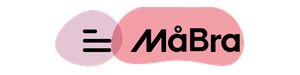
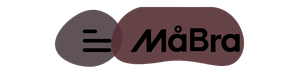
smilefix 08-27: trust strips 9,7 + darker pastel press marks (visual pass) — sha D

diff --git a/smilefix-nlbe/lander.css b/smilefix-nlbe/lander.css
@@ -1,10 +1,10 @@
 
-@font-face{font-family:poppins;font-style:normal;font-weight:400;font-display:swap;src:url(https://cdn.jsdelivr.net/gh/h2sghf9zzd-ai/funnel-assets@1116ad9/smilefix-nlbe/lander/8fe2ec7c823e.woff2)format('woff2');unicode-range:U+0900-097F,U+1CD0-1CF9,U+200C-200D,U+20A8,U+20B9,U+20F0,U+25CC,U+A830-A839,U+A8E0-A8FF,U+11B00-11B09}
-@font-face{font-family:poppins;font-style:normal;font-weight:400;font-display:swap;src:url(https://cdn.jsdelivr.net/gh/h2sghf9zzd-ai/funnel-assets@1116ad9/smilefix-nlbe/lander/c9d614f41715.woff2)format('woff2');unicode-range:U+0100-02BA,U+02BD-02C5,U+02C7-02CC,U+02CE-02D7,U+02DD-02FF,U+0304,U+0308,U+0329,U+1D00-1DBF,U+1E00-1E9F,U+1EF2-1EFF,U+2020,U+20A0-20AB,U+20AD-20C0,U+2113,U+2C60-2C7F,U+A720-A7FF}
-@font-face{font-family:poppins;font-style:normal;font-weight:400;font-display:swap;src:url(https://cdn.jsdelivr.net/gh/h2sghf9zzd-ai/funnel-assets@1116ad9/smilefix-nlbe/lander/e6a077c34deb.woff2)format('woff2');unicode-range:U+0000-00FF,U+0131,U+0152-0153,U+02BB-02BC,U+02C6,U+02DA,U+02DC,U+0304,U+0308,U+0329,U+2000-206F,U+20AC,U+2122,U+2191,U+2193,U+2212,U+2215,U+FEFF,U+FFFD}
-@font-face{font-family:poppins;font-style:normal;font-weight:700;font-display:swap;src:url(https://cdn.jsdelivr.net/gh/h2sghf9zzd-ai/funnel-assets@1116ad9/smilefix-nlbe/lander/23090f00efe3.woff2)format('woff2');unicode-range:U+0900-097F,U+1CD0-1CF9,U+200C-200D,U+20A8,U+20B9,U+20F0,U+25CC,U+A830-A839,U+A8E0-A8FF,U+11B00-11B09}
-@font-face{font-family:poppins;font-style:normal;font-weight:700;font-display:swap;src:url(https://cdn.jsdelivr.net/gh/h2sghf9zzd-ai/funnel-assets@1116ad9/smilefix-nlbe/lander/7199488410a2.woff2)format('woff2');unicode-range:U+0100-02BA,U+02BD-02C5,U+02C7-02CC,U+02CE-02D7,U+02DD-02FF,U+0304,U+0308,U+0329,U+1D00-1DBF,U+1E00-1E9F,U+1EF2-1EFF,U+2020,U+20A0-20AB,U+20AD-20C0,U+2113,U+2C60-2C7F,U+A720-A7FF}
-@font-face{font-family:poppins;font-style:normal;font-weight:700;font-display:swap;src:url(https://cdn.jsdelivr.net/gh/h2sghf9zzd-ai/funnel-assets@1116ad9/smilefix-nlbe/lander/742b18be16f6.woff2)format('woff2');unicode-range:U+0000-00FF,U+0131,U+0152-0153,U+02BB-02BC,U+02C6,U+02DA,U+02DC,U+0304,U+0308,U+0329,U+2000-206F,U+20AC,U+2122,U+2191,U+2193,U+2212,U+2215,U+FEFF,U+FFFD}
+@font-face{font-family:poppins;font-style:normal;font-weight:400;font-display:swap;src:url(https://cdn.jsdelivr.net/gh/h2sghf9zzd-ai/funnel-assets@9b43228/smilefix-nlbe/lander/8fe2ec7c823e.woff2)format('woff2');unicode-range:U+0900-097F,U+1CD0-1CF9,U+200C-200D,U+20A8,U+20B9,U+20F0,U+25CC,U+A830-A839,U+A8E0-A8FF,U+11B00-11B09}
+@font-face{font-family:poppins;font-style:normal;font-weight:400;font-display:swap;src:url(https://cdn.jsdelivr.net/gh/h2sghf9zzd-ai/funnel-assets@9b43228/smilefix-nlbe/lander/c9d614f41715.woff2)format('woff2');unicode-range:U+0100-02BA,U+02BD-02C5,U+02C7-02CC,U+02CE-02D7,U+02DD-02FF,U+0304,U+0308,U+0329,U+1D00-1DBF,U+1E00-1E9F,U+1EF2-1EFF,U+2020,U+20A0-20AB,U+20AD-20C0,U+2113,U+2C60-2C7F,U+A720-A7FF}
+@font-face{font-family:poppins;font-style:normal;font-weight:400;font-display:swap;src:url(https://cdn.jsdelivr.net/gh/h2sghf9zzd-ai/funnel-assets@9b43228/smilefix-nlbe/lander/e6a077c34deb.woff2)format('woff2');unicode-range:U+0000-00FF,U+0131,U+0152-0153,U+02BB-02BC,U+02C6,U+02DA,U+02DC,U+0304,U+0308,U+0329,U+2000-206F,U+20AC,U+2122,U+2191,U+2193,U+2212,U+2215,U+FEFF,U+FFFD}
+@font-face{font-family:poppins;font-style:normal;font-weight:700;font-display:swap;src:url(https://cdn.jsdelivr.net/gh/h2sghf9zzd-ai/funnel-assets@9b43228/smilefix-nlbe/lander/23090f00efe3.woff2)format('woff2');unicode-range:U+0900-097F,U+1CD0-1CF9,U+200C-200D,U+20A8,U+20B9,U+20F0,U+25CC,U+A830-A839,U+A8E0-A8FF,U+11B00-11B09}
+@font-face{font-family:poppins;font-style:normal;font-weight:700;font-display:swap;src:url(https://cdn.jsdelivr.net/gh/h2sghf9zzd-ai/funnel-assets@9b43228/smilefix-nlbe/lander/7199488410a2.woff2)format('woff2');unicode-range:U+0100-02BA,U+02BD-02C5,U+02C7-02CC,U+02CE-02D7,U+02DD-02FF,U+0304,U+0308,U+0329,U+1D00-1DBF,U+1E00-1E9F,U+1EF2-1EFF,U+2020,U+20A0-20AB,U+20AD-20C0,U+2113,U+2C60-2C7F,U+A720-A7FF}
+@font-face{font-family:poppins;font-style:normal;font-weight:700;font-display:swap;src:url(https://cdn.jsdelivr.net/gh/h2sghf9zzd-ai/funnel-assets@9b43228/smilefix-nlbe/lander/742b18be16f6.woff2)format('woff2');unicode-range:U+0000-00FF,U+0131,U+0152-0153,U+02BB-02BC,U+02C6,U+02DA,U+02DC,U+0304,U+0308,U+0329,U+2000-206F,U+20AC,U+2122,U+2191,U+2193,U+2212,U+2215,U+FEFF,U+FFFD}
 @media (max-width: 768px) {
 :where(#smilefix-root) .your-slider-image-class {
     width: 100% !important;
@@ -3854,12 +3854,12 @@
 :where(#smilefix-root) .el-852791 .el-888014 .btn { display:inherit; }
 }
 :where(#smilefix-root) .el-852791 .el-888014 .btn { font-size:22px;text-align:center;border-top:0px solid ;border-left:0px solid ;border-right:0px solid ;border-bottom:0px solid ;border-radius:7px 7px 7px 7px;line-height:1;margin:10px 0px 10px 0px;padding:15px 30px 15px 30px;background-color:#1565c0;box-shadow:none; }
-@font-face { font-family: poppins; font-style: normal; font-weight: 400; font-display: swap; src: url("https://cdn.jsdelivr.net/gh/h2sghf9zzd-ai/funnel-assets@1116ad9/smilefix-nlbe/lander/8fe2ec7c823e.woff2") format("woff2"); unicode-range: U+900-97F, U+1CD0-1CF9, U+200C-200D, U+20A8, U+20B9, U+20F0, U+25CC, U+A830-A839, U+A8E0-A8FF, U+11B00-11B09; }
-@font-face { font-family: poppins; font-style: normal; font-weight: 400; font-display: swap; src: url("https://cdn.jsdelivr.net/gh/h2sghf9zzd-ai/funnel-assets@1116ad9/smilefix-nlbe/lander/c9d614f41715.woff2") format("woff2"); unicode-range: U+100-2BA, U+2BD-2C5, U+2C7-2CC, U+2CE-2D7, U+2DD-2FF, U+304, U+308, U+329, U+1D00-1DBF, U+1E00-1E9F, U+1EF2-1EFF, U+2020, U+20A0-20AB, U+20AD-20C0, U+2113, U+2C60-2C7F, U+A720-A7FF; }
-@font-face { font-family: poppins; font-style: normal; font-weight: 400; font-display: swap; src: url("https://cdn.jsdelivr.net/gh/h2sghf9zzd-ai/funnel-assets@1116ad9/smilefix-nlbe/lander/e6a077c34deb.woff2") format("woff2"); unicode-range: U+0-FF, U+131, U+152-153, U+2BB-2BC, U+2C6, U+2DA, U+2DC, U+304, U+308, U+329, U+2000-206F, U+20AC, U+2122, U+2191, U+2193, U+2212, U+2215, U+FEFF, U+FFFD; }
-@font-face { font-family: poppins; font-style: normal; font-weight: 700; font-display: swap; src: url("https://cdn.jsdelivr.net/gh/h2sghf9zzd-ai/funnel-assets@1116ad9/smilefix-nlbe/lander/23090f00efe3.woff2") format("woff2"); unicode-range: U+900-97F, U+1CD0-1CF9, U+200C-200D, U+20A8, U+20B9, U+20F0, U+25CC, U+A830-A839, U+A8E0-A8FF, U+11B00-11B09; }
-@font-face { font-family: poppins; font-style: normal; font-weight: 700; font-display: swap; src: url("https://cdn.jsdelivr.net/gh/h2sghf9zzd-ai/funnel-assets@1116ad9/smilefix-nlbe/lander/7199488410a2.woff2") format("woff2"); unicode-range: U+100-2BA, U+2BD-2C5, U+2C7-2CC, U+2CE-2D7, U+2DD-2FF, U+304, U+308, U+329, U+1D00-1DBF, U+1E00-1E9F, U+1EF2-1EFF, U+2020, U+20A0-20AB, U+20AD-20C0, U+2113, U+2C60-2C7F, U+A720-A7FF; }
-@font-face { font-family: poppins; font-style: normal; font-weight: 700; font-display: swap; src: url("https://cdn.jsdelivr.net/gh/h2sghf9zzd-ai/funnel-assets@1116ad9/smilefix-nlbe/lander/742b18be16f6.woff2") format("woff2"); unicode-range: U+0-FF, U+131, U+152-153, U+2BB-2BC, U+2C6, U+2DA, U+2DC, U+304, U+308, U+329, U+2000-206F, U+20AC, U+2122, U+2191, U+2193, U+2212, U+2215, U+FEFF, U+FFFD; }
+@font-face { font-family: poppins; font-style: normal; font-weight: 400; font-display: swap; src: url("https://cdn.jsdelivr.net/gh/h2sghf9zzd-ai/funnel-assets@9b43228/smilefix-nlbe/lander/8fe2ec7c823e.woff2") format("woff2"); unicode-range: U+900-97F, U+1CD0-1CF9, U+200C-200D, U+20A8, U+20B9, U+20F0, U+25CC, U+A830-A839, U+A8E0-A8FF, U+11B00-11B09; }
+@font-face { font-family: poppins; font-style: normal; font-weight: 400; font-display: swap; src: url("https://cdn.jsdelivr.net/gh/h2sghf9zzd-ai/funnel-assets@9b43228/smilefix-nlbe/lander/c9d614f41715.woff2") format("woff2"); unicode-range: U+100-2BA, U+2BD-2C5, U+2C7-2CC, U+2CE-2D7, U+2DD-2FF, U+304, U+308, U+329, U+1D00-1DBF, U+1E00-1E9F, U+1EF2-1EFF, U+2020, U+20A0-20AB, U+20AD-20C0, U+2113, U+2C60-2C7F, U+A720-A7FF; }
+@font-face { font-family: poppins; font-style: normal; font-weight: 400; font-display: swap; src: url("https://cdn.jsdelivr.net/gh/h2sghf9zzd-ai/funnel-assets@9b43228/smilefix-nlbe/lander/e6a077c34deb.woff2") format("woff2"); unicode-range: U+0-FF, U+131, U+152-153, U+2BB-2BC, U+2C6, U+2DA, U+2DC, U+304, U+308, U+329, U+2000-206F, U+20AC, U+2122, U+2191, U+2193, U+2212, U+2215, U+FEFF, U+FFFD; }
+@font-face { font-family: poppins; font-style: normal; font-weight: 700; font-display: swap; src: url("https://cdn.jsdelivr.net/gh/h2sghf9zzd-ai/funnel-assets@9b43228/smilefix-nlbe/lander/23090f00efe3.woff2") format("woff2"); unicode-range: U+900-97F, U+1CD0-1CF9, U+200C-200D, U+20A8, U+20B9, U+20F0, U+25CC, U+A830-A839, U+A8E0-A8FF, U+11B00-11B09; }
+@font-face { font-family: poppins; font-style: normal; font-weight: 700; font-display: swap; src: url("https://cdn.jsdelivr.net/gh/h2sghf9zzd-ai/funnel-assets@9b43228/smilefix-nlbe/lander/7199488410a2.woff2") format("woff2"); unicode-range: U+100-2BA, U+2BD-2C5, U+2C7-2CC, U+2CE-2D7, U+2DD-2FF, U+304, U+308, U+329, U+1D00-1DBF, U+1E00-1E9F, U+1EF2-1EFF, U+2020, U+20A0-20AB, U+20AD-20C0, U+2113, U+2C60-2C7F, U+A720-A7FF; }
+@font-face { font-family: poppins; font-style: normal; font-weight: 700; font-display: swap; src: url("https://cdn.jsdelivr.net/gh/h2sghf9zzd-ai/funnel-assets@9b43228/smilefix-nlbe/lander/742b18be16f6.woff2") format("woff2"); unicode-range: U+0-FF, U+131, U+152-153, U+2BB-2BC, U+2C6, U+2DA, U+2DC, U+304, U+308, U+329, U+2000-206F, U+20AC, U+2122, U+2191, U+2193, U+2212, U+2215, U+FEFF, U+FFFD; }
 :where(#smilefix-root) a { color-scheme: unset; forced-color-adjust: unset; math-depth: unset; position: unset; position-anchor: unset; text-size-adjust: unset; appearance: unset; color: unset; font: unset; font-palette: unset; font-synthesis: unset; position-area: unset; text-orientation: unset; text-rendering: unset; text-spacing-trim: unset; -webkit-font-smoothing: unset; -webkit-locale: unset; -webkit-text-orientation: unset; -webkit-writing-mode: unset; writing-mode: unset; zoom: unset; accent-color: unset; place-content: unset; place-items: unset; place-self: unset; alignment-baseline: unset; anchor-name: unset; anchor-scope: unset; animation-composition: unset; animation: unset; animation-trigger: unset; app-region: unset; aspect-ratio: unset; backdrop-filter: unset; backface-visibility: unset; background: unset; background-blend-mode: unset; baseline-shift: unset; baseline-source: unset; block-size: unset; border-block: unset; border: unset; border-radius: unset; border-collapse: unset; border-end-end-radius: unset; border-end-start-radius: unset; border-inline: unset; border-shape: unset; border-start-end-radius: unset; border-start-start-radius: unset; inset: unset; box-decoration-break: unset; box-shadow: unset; break-after: unset; break-before: unset; break-inside: unset; buffered-rendering: unset; caption-side: unset; caret-animation: unset; caret-color: unset; caret-shape: unset; clear: unset; clip: unset; clip-path: unset; clip-rule: unset; color-interpolation: unset; color-interpolation-filters: unset; color-rendering: unset; columns: unset; column-fill: unset; gap: unset; column-rule: unset; column-span: unset; contain: unset; contain-intrinsic-block-size: unset; contain-intrinsic-size: unset; contain-intrinsic-inline-size: unset; container: unset; content: unset; content-visibility: unset; corner-shape: unset; corner-block-end-shape: unset; corner-block-start-shape: unset; counter-increment: unset; counter-reset: unset; counter-set: unset; cx: unset; cy: unset; d: unset; display: unset; dominant-baseline: unset; dynamic-range-limit: unset; empty-cells: unset; field-sizing: unset; fill: unset; fill-opacity: unset; fill-rule: unset; filter: unset; flex: unset; flex-flow: unset; float: unset; flood-color: unset; flood-opacity: unset; grid: unset; grid-area: unset; height: unset; hyphenate-character: unset; hyphenate-limit-chars: unset; hyphens: unset; image-orientation: unset; image-rendering: unset; initial-letter: unset; inline-size: unset; inset-block: unset; inset-inline: unset; interactivity: unset; interest-delay: unset; interpolate-size: unset; isolation: unset; letter-spacing: unset; lighting-color: unset; line-break: unset; list-style: unset; margin-block: unset; margin: unset; margin-inline: unset; marker: unset; mask: unset; mask-type: unset; math-shift: unset; math-style: unset; max-block-size: unset; max-height: unset; max-inline-size: unset; max-width: unset; min-block-size: unset; min-height: unset; min-inline-size: unset; min-width: unset; mix-blend-mode: unset; object-fit: unset; object-position: unset; object-view-box: unset; offset: unset; opacity: unset; order: unset; orphans: unset; outline: unset; outline-offset: unset; overflow-anchor: unset; overflow-block: unset; overflow-clip-margin: unset; overflow-inline: unset; overflow-wrap: unset; overflow: unset; overlay: unset; overscroll-behavior-block: unset; overscroll-behavior-inline: unset; overscroll-behavior: unset; padding-block: unset; padding: unset; padding-inline: unset; page: unset; page-orientation: unset; paint-order: unset; perspective: unset; perspective-origin: unset; pointer-events: unset; position-try: unset; position-visibility: unset; print-color-adjust: unset; quotes: unset; r: unset; reading-flow: unset; reading-order: unset; resize: unset; rotate: unset; ruby-align: unset; ruby-position: unset; rx: unset; ry: unset; scale: unset; scroll-behavior: unset; scroll-initial-target: unset; scroll-margin-block: unset; scroll-margin: unset; scroll-margin-inline: unset; scroll-marker-group: unset; scroll-padding-block: unset; scroll-padding: unset; scroll-padding-inline: unset; scroll-snap-align: unset; scroll-snap-stop: unset; scroll-snap-type: unset; scroll-target-group: unset; scroll-timeline: unset; scrollbar-color: unset; scrollbar-gutter: unset; scrollbar-width: unset; shape-image-threshold: unset; shape-margin: unset; shape-outside: unset; shape-rendering: unset; size: unset; speak: unset; stop-color: unset; stop-opacity: unset; stroke: unset; stroke-dasharray: unset; stroke-dashoffset: unset; stroke-linecap: unset; stroke-linejoin: unset; stroke-miterlimit: unset; stroke-opacity: unset; stroke-width: unset; tab-size: unset; table-layout: unset; text-align: unset; text-align-last: unset; text-anchor: unset; text-autospace: unset; text-box: unset; text-combine-upright: unset; text-decoration: unset; text-decoration-skip-ink: unset; text-emphasis: unset; text-emphasis-position: unset; text-indent: unset; text-justify: unset; text-overflow: unset; text-shadow: unset; text-transform: unset; text-underline-offset: unset; text-underline-position: unset; text-wrap: unset; timeline-scope: unset; timeline-trigger: unset; touch-action: unset; transform: unset; transform-box: unset; transform-origin: unset; transform-style: unset; transition: unset; translate: unset; trigger-scope: unset; user-select: unset; vector-effect: unset; vertical-align: unset; view-timeline: unset; view-transition-class: unset; view-transition-group: unset; view-transition-name: unset; view-transition-scope: unset; visibility: unset; border-spacing: unset; -webkit-box-align: unset; -webkit-box-decoration-break: unset; -webkit-box-direction: unset; -webkit-box-flex: unset; -webkit-box-ordinal-group: unset; -webkit-box-orient: unset; -webkit-box-pack: unset; -webkit-box-reflect: unset; -webkit-line-break: unset; -webkit-line-clamp: unset; -webkit-mask-box-image: unset; -webkit-rtl-ordering: unset; -webkit-ruby-position: unset; -webkit-tap-highlight-color: unset; -webkit-text-combine: unset; -webkit-text-decorations-in-effect: unset; -webkit-text-fill-color: unset; -webkit-text-security: unset; -webkit-text-stroke: unset; -webkit-user-drag: unset; white-space-collapse: unset; widows: unset; width: unset; will-change: unset; word-break: unset; word-spacing: unset; x: unset; y: unset; z-index: unset; cursor: pointer; box-sizing: border-box; }
 :where(#smilefix-root) code { white-space: normal; }
 :where(#smilefix-root) span[data-type="icon"] { position: relative; vertical-align: middle; display: inline-flex; }

diff --git a/smilefix-se/lander.css b/smilefix-se/lander.css
@@ -1,10 +1,10 @@
 
-@font-face{font-family:poppins;font-style:normal;font-weight:400;font-display:swap;src:url(https://cdn.jsdelivr.net/gh/h2sghf9zzd-ai/funnel-assets@1116ad9/smilefix-se/lander/8fe2ec7c823e.woff2)format('woff2');unicode-range:U+0900-097F,U+1CD0-1CF9,U+200C-200D,U+20A8,U+20B9,U+20F0,U+25CC,U+A830-A839,U+A8E0-A8FF,U+11B00-11B09}
-@font-face{font-family:poppins;font-style:normal;font-weight:400;font-display:swap;src:url(https://cdn.jsdelivr.net/gh/h2sghf9zzd-ai/funnel-assets@1116ad9/smilefix-se/lander/c9d614f41715.woff2)format('woff2');unicode-range:U+0100-02BA,U+02BD-02C5,U+02C7-02CC,U+02CE-02D7,U+02DD-02FF,U+0304,U+0308,U+0329,U+1D00-1DBF,U+1E00-1E9F,U+1EF2-1EFF,U+2020,U+20A0-20AB,U+20AD-20C0,U+2113,U+2C60-2C7F,U+A720-A7FF}
-@font-face{font-family:poppins;font-style:normal;font-weight:400;font-display:swap;src:url(https://cdn.jsdelivr.net/gh/h2sghf9zzd-ai/funnel-assets@1116ad9/smilefix-se/lander/e6a077c34deb.woff2)format('woff2');unicode-range:U+0000-00FF,U+0131,U+0152-0153,U+02BB-02BC,U+02C6,U+02DA,U+02DC,U+0304,U+0308,U+0329,U+2000-206F,U+20AC,U+2122,U+2191,U+2193,U+2212,U+2215,U+FEFF,U+FFFD}
-@font-face{font-family:poppins;font-style:normal;font-weight:700;font-display:swap;src:url(https://cdn.jsdelivr.net/gh/h2sghf9zzd-ai/funnel-assets@1116ad9/smilefix-se/lander/23090f00efe3.woff2)format('woff2');unicode-range:U+0900-097F,U+1CD0-1CF9,U+200C-200D,U+20A8,U+20B9,U+20F0,U+25CC,U+A830-A839,U+A8E0-A8FF,U+11B00-11B09}
-@font-face{font-family:poppins;font-style:normal;font-weight:700;font-display:swap;src:url(https://cdn.jsdelivr.net/gh/h2sghf9zzd-ai/funnel-assets@1116ad9/smilefix-se/lander/7199488410a2.woff2)format('woff2');unicode-range:U+0100-02BA,U+02BD-02C5,U+02C7-02CC,U+02CE-02D7,U+02DD-02FF,U+0304,U+0308,U+0329,U+1D00-1DBF,U+1E00-1E9F,U+1EF2-1EFF,U+2020,U+20A0-20AB,U+20AD-20C0,U+2113,U+2C60-2C7F,U+A720-A7FF}
-@font-face{font-family:poppins;font-style:normal;font-weight:700;font-display:swap;src:url(https://cdn.jsdelivr.net/gh/h2sghf9zzd-ai/funnel-assets@1116ad9/smilefix-se/lander/742b18be16f6.woff2)format('woff2');unicode-range:U+0000-00FF,U+0131,U+0152-0153,U+02BB-02BC,U+02C6,U+02DA,U+02DC,U+0304,U+0308,U+0329,U+2000-206F,U+20AC,U+2122,U+2191,U+2193,U+2212,U+2215,U+FEFF,U+FFFD}
+@font-face{font-family:poppins;font-style:normal;font-weight:400;font-display:swap;src:url(https://cdn.jsdelivr.net/gh/h2sghf9zzd-ai/funnel-assets@9b43228/smilefix-se/lander/8fe2ec7c823e.woff2)format('woff2');unicode-range:U+0900-097F,U+1CD0-1CF9,U+200C-200D,U+20A8,U+20B9,U+20F0,U+25CC,U+A830-A839,U+A8E0-A8FF,U+11B00-11B09}
+@font-face{font-family:poppins;font-style:normal;font-weight:400;font-display:swap;src:url(https://cdn.jsdelivr.net/gh/h2sghf9zzd-ai/funnel-assets@9b43228/smilefix-se/lander/c9d614f41715.woff2)format('woff2');unicode-range:U+0100-02BA,U+02BD-02C5,U+02C7-02CC,U+02CE-02D7,U+02DD-02FF,U+0304,U+0308,U+0329,U+1D00-1DBF,U+1E00-1E9F,U+1EF2-1EFF,U+2020,U+20A0-20AB,U+20AD-20C0,U+2113,U+2C60-2C7F,U+A720-A7FF}
+@font-face{font-family:poppins;font-style:normal;font-weight:400;font-display:swap;src:url(https://cdn.jsdelivr.net/gh/h2sghf9zzd-ai/funnel-assets@9b43228/smilefix-se/lander/e6a077c34deb.woff2)format('woff2');unicode-range:U+0000-00FF,U+0131,U+0152-0153,U+02BB-02BC,U+02C6,U+02DA,U+02DC,U+0304,U+0308,U+0329,U+2000-206F,U+20AC,U+2122,U+2191,U+2193,U+2212,U+2215,U+FEFF,U+FFFD}
+@font-face{font-family:poppins;font-style:normal;font-weight:700;font-display:swap;src:url(https://cdn.jsdelivr.net/gh/h2sghf9zzd-ai/funnel-assets@9b43228/smilefix-se/lander/23090f00efe3.woff2)format('woff2');unicode-range:U+0900-097F,U+1CD0-1CF9,U+200C-200D,U+20A8,U+20B9,U+20F0,U+25CC,U+A830-A839,U+A8E0-A8FF,U+11B00-11B09}
+@font-face{font-family:poppins;font-style:normal;font-weight:700;font-display:swap;src:url(https://cdn.jsdelivr.net/gh/h2sghf9zzd-ai/funnel-assets@9b43228/smilefix-se/lander/7199488410a2.woff2)format('woff2');unicode-range:U+0100-02BA,U+02BD-02C5,U+02C7-02CC,U+02CE-02D7,U+02DD-02FF,U+0304,U+0308,U+0329,U+1D00-1DBF,U+1E00-1E9F,U+1EF2-1EFF,U+2020,U+20A0-20AB,U+20AD-20C0,U+2113,U+2C60-2C7F,U+A720-A7FF}
+@font-face{font-family:poppins;font-style:normal;font-weight:700;font-display:swap;src:url(https://cdn.jsdelivr.net/gh/h2sghf9zzd-ai/funnel-assets@9b43228/smilefix-se/lander/742b18be16f6.woff2)format('woff2');unicode-range:U+0000-00FF,U+0131,U+0152-0153,U+02BB-02BC,U+02C6,U+02DA,U+02DC,U+0304,U+0308,U+0329,U+2000-206F,U+20AC,U+2122,U+2191,U+2193,U+2212,U+2215,U+FEFF,U+FFFD}
 @media (max-width: 768px) {
 :where(#smilefix-root) .your-slider-image-class {
     width: 100% !important;
@@ -3854,12 +3854,12 @@
 :where(#smilefix-root) .el-852791 .el-888014 .btn { display:inherit; }
 }
 :where(#smilefix-root) .el-852791 .el-888014 .btn { font-size:22px;text-align:center;border-top:0px solid ;border-left:0px solid ;border-right:0px solid ;border-bottom:0px solid ;border-radius:7px 7px 7px 7px;line-height:1;margin:10px 0px 10px 0px;padding:15px 30px 15px 30px;background-color:#1565c0;box-shadow:none; }
-@font-face { font-family: poppins; font-style: normal; font-weight: 400; font-display: swap; src: url("https://cdn.jsdelivr.net/gh/h2sghf9zzd-ai/funnel-assets@1116ad9/smilefix-se/lander/8fe2ec7c823e.woff2") format("woff2"); unicode-range: U+900-97F, U+1CD0-1CF9, U+200C-200D, U+20A8, U+20B9, U+20F0, U+25CC, U+A830-A839, U+A8E0-A8FF, U+11B00-11B09; }
-@font-face { font-family: poppins; font-style: normal; font-weight: 400; font-display: swap; src: url("https://cdn.jsdelivr.net/gh/h2sghf9zzd-ai/funnel-assets@1116ad9/smilefix-se/lander/c9d614f41715.woff2") format("woff2"); unicode-range: U+100-2BA, U+2BD-2C5, U+2C7-2CC, U+2CE-2D7, U+2DD-2FF, U+304, U+308, U+329, U+1D00-1DBF, U+1E00-1E9F, U+1EF2-1EFF, U+2020, U+20A0-20AB, U+20AD-20C0, U+2113, U+2C60-2C7F, U+A720-A7FF; }
-@font-face { font-family: poppins; font-style: normal; font-weight: 400; font-display: swap; src: url("https://cdn.jsdelivr.net/gh/h2sghf9zzd-ai/funnel-assets@1116ad9/smilefix-se/lander/e6a077c34deb.woff2") format("woff2"); unicode-range: U+0-FF, U+131, U+152-153, U+2BB-2BC, U+2C6, U+2DA, U+2DC, U+304, U+308, U+329, U+2000-206F, U+20AC, U+2122, U+2191, U+2193, U+2212, U+2215, U+FEFF, U+FFFD; }
-@font-face { font-family: poppins; font-style: normal; font-weight: 700; font-display: swap; src: url("https://cdn.jsdelivr.net/gh/h2sghf9zzd-ai/funnel-assets@1116ad9/smilefix-se/lander/23090f00efe3.woff2") format("woff2"); unicode-range: U+900-97F, U+1CD0-1CF9, U+200C-200D, U+20A8, U+20B9, U+20F0, U+25CC, U+A830-A839, U+A8E0-A8FF, U+11B00-11B09; }
-@font-face { font-family: poppins; font-style: normal; font-weight: 700; font-display: swap; src: url("https://cdn.jsdelivr.net/gh/h2sghf9zzd-ai/funnel-assets@1116ad9/smilefix-se/lander/7199488410a2.woff2") format("woff2"); unicode-range: U+100-2BA, U+2BD-2C5, U+2C7-2CC, U+2CE-2D7, U+2DD-2FF, U+304, U+308, U+329, U+1D00-1DBF, U+1E00-1E9F, U+1EF2-1EFF, U+2020, U+20A0-20AB, U+20AD-20C0, U+2113, U+2C60-2C7F, U+A720-A7FF; }
-@font-face { font-family: poppins; font-style: normal; font-weight: 700; font-display: swap; src: url("https://cdn.jsdelivr.net/gh/h2sghf9zzd-ai/funnel-assets@1116ad9/smilefix-se/lander/742b18be16f6.woff2") format("woff2"); unicode-range: U+0-FF, U+131, U+152-153, U+2BB-2BC, U+2C6, U+2DA, U+2DC, U+304, U+308, U+329, U+2000-206F, U+20AC, U+2122, U+2191, U+2193, U+2212, U+2215, U+FEFF, U+FFFD; }
+@font-face { font-family: poppins; font-style: normal; font-weight: 400; font-display: swap; src: url("https://cdn.jsdelivr.net/gh/h2sghf9zzd-ai/funnel-assets@9b43228/smilefix-se/lander/8fe2ec7c823e.woff2") format("woff2"); unicode-range: U+900-97F, U+1CD0-1CF9, U+200C-200D, U+20A8, U+20B9, U+20F0, U+25CC, U+A830-A839, U+A8E0-A8FF, U+11B00-11B09; }
+@font-face { font-family: poppins; font-style: normal; font-weight: 400; font-display: swap; src: url("https://cdn.jsdelivr.net/gh/h2sghf9zzd-ai/funnel-assets@9b43228/smilefix-se/lander/c9d614f41715.woff2") format("woff2"); unicode-range: U+100-2BA, U+2BD-2C5, U+2C7-2CC, U+2CE-2D7, U+2DD-2FF, U+304, U+308, U+329, U+1D00-1DBF, U+1E00-1E9F, U+1EF2-1EFF, U+2020, U+20A0-20AB, U+20AD-20C0, U+2113, U+2C60-2C7F, U+A720-A7FF; }
+@font-face { font-family: poppins; font-style: normal; font-weight: 400; font-display: swap; src: url("https://cdn.jsdelivr.net/gh/h2sghf9zzd-ai/funnel-assets@9b43228/smilefix-se/lander/e6a077c34deb.woff2") format("woff2"); unicode-range: U+0-FF, U+131, U+152-153, U+2BB-2BC, U+2C6, U+2DA, U+2DC, U+304, U+308, U+329, U+2000-206F, U+20AC, U+2122, U+2191, U+2193, U+2212, U+2215, U+FEFF, U+FFFD; }
+@font-face { font-family: poppins; font-style: normal; font-weight: 700; font-display: swap; src: url("https://cdn.jsdelivr.net/gh/h2sghf9zzd-ai/funnel-assets@9b43228/smilefix-se/lander/23090f00efe3.woff2") format("woff2"); unicode-range: U+900-97F, U+1CD0-1CF9, U+200C-200D, U+20A8, U+20B9, U+20F0, U+25CC, U+A830-A839, U+A8E0-A8FF, U+11B00-11B09; }
+@font-face { font-family: poppins; font-style: normal; font-weight: 700; font-display: swap; src: url("https://cdn.jsdelivr.net/gh/h2sghf9zzd-ai/funnel-assets@9b43228/smilefix-se/lander/7199488410a2.woff2") format("woff2"); unicode-range: U+100-2BA, U+2BD-2C5, U+2C7-2CC, U+2CE-2D7, U+2DD-2FF, U+304, U+308, U+329, U+1D00-1DBF, U+1E00-1E9F, U+1EF2-1EFF, U+2020, U+20A0-20AB, U+20AD-20C0, U+2113, U+2C60-2C7F, U+A720-A7FF; }
+@font-face { font-family: poppins; font-style: normal; font-weight: 700; font-display: swap; src: url("https://cdn.jsdelivr.net/gh/h2sghf9zzd-ai/funnel-assets@9b43228/smilefix-se/lander/742b18be16f6.woff2") format("woff2"); unicode-range: U+0-FF, U+131, U+152-153, U+2BB-2BC, U+2C6, U+2DA, U+2DC, U+304, U+308, U+329, U+2000-206F, U+20AC, U+2122, U+2191, U+2193, U+2212, U+2215, U+FEFF, U+FFFD; }
 :where(#smilefix-root) a { color-scheme: unset; forced-color-adjust: unset; math-depth: unset; position: unset; position-anchor: unset; text-size-adjust: unset; appearance: unset; color: unset; font: unset; font-palette: unset; font-synthesis: unset; position-area: unset; text-orientation: unset; text-rendering: unset; text-spacing-trim: unset; -webkit-font-smoothing: unset; -webkit-locale: unset; -webkit-text-orientation: unset; -webkit-writing-mode: unset; writing-mode: unset; zoom: unset; accent-color: unset; place-content: unset; place-items: unset; place-self: unset; alignment-baseline: unset; anchor-name: unset; anchor-scope: unset; animation-composition: unset; animation: unset; animation-trigger: unset; app-region: unset; aspect-ratio: unset; backdrop-filter: unset; backface-visibility: unset; background: unset; background-blend-mode: unset; baseline-shift: unset; baseline-source: unset; block-size: unset; border-block: unset; border: unset; border-radius: unset; border-collapse: unset; border-end-end-radius: unset; border-end-start-radius: unset; border-inline: unset; border-shape: unset; border-start-end-radius: unset; border-start-start-radius: unset; inset: unset; box-decoration-break: unset; box-shadow: unset; break-after: unset; break-before: unset; break-inside: unset; buffered-rendering: unset; caption-side: unset; caret-animation: unset; caret-color: unset; caret-shape: unset; clear: unset; clip: unset; clip-path: unset; clip-rule: unset; color-interpolation: unset; color-interpolation-filters: unset; color-rendering: unset; columns: unset; column-fill: unset; gap: unset; column-rule: unset; column-span: unset; contain: unset; contain-intrinsic-block-size: unset; contain-intrinsic-size: unset; contain-intrinsic-inline-size: unset; container: unset; content: unset; content-visibility: unset; corner-shape: unset; corner-block-end-shape: unset; corner-block-start-shape: unset; counter-increment: unset; counter-reset: unset; counter-set: unset; cx: unset; cy: unset; d: unset; display: unset; dominant-baseline: unset; dynamic-range-limit: unset; empty-cells: unset; field-sizing: unset; fill: unset; fill-opacity: unset; fill-rule: unset; filter: unset; flex: unset; flex-flow: unset; float: unset; flood-color: unset; flood-opacity: unset; grid: unset; grid-area: unset; height: unset; hyphenate-character: unset; hyphenate-limit-chars: unset; hyphens: unset; image-orientation: unset; image-rendering: unset; initial-letter: unset; inline-size: unset; inset-block: unset; inset-inline: unset; interactivity: unset; interest-delay: unset; interpolate-size: unset; isolation: unset; letter-spacing: unset; lighting-color: unset; line-break: unset; list-style: unset; margin-block: unset; margin: unset; margin-inline: unset; marker: unset; mask: unset; mask-type: unset; math-shift: unset; math-style: unset; max-block-size: unset; max-height: unset; max-inline-size: unset; max-width: unset; min-block-size: unset; min-height: unset; min-inline-size: unset; min-width: unset; mix-blend-mode: unset; object-fit: unset; object-position: unset; object-view-box: unset; offset: unset; opacity: unset; order: unset; orphans: unset; outline: unset; outline-offset: unset; overflow-anchor: unset; overflow-block: unset; overflow-clip-margin: unset; overflow-inline: unset; overflow-wrap: unset; overflow: unset; overlay: unset; overscroll-behavior-block: unset; overscroll-behavior-inline: unset; overscroll-behavior: unset; padding-block: unset; padding: unset; padding-inline: unset; page: unset; page-orientation: unset; paint-order: unset; perspective: unset; perspective-origin: unset; pointer-events: unset; position-try: unset; position-visibility: unset; print-color-adjust: unset; quotes: unset; r: unset; reading-flow: unset; reading-order: unset; resize: unset; rotate: unset; ruby-align: unset; ruby-position: unset; rx: unset; ry: unset; scale: unset; scroll-behavior: unset; scroll-initial-target: unset; scroll-margin-block: unset; scroll-margin: unset; scroll-margin-inline: unset; scroll-marker-group: unset; scroll-padding-block: unset; scroll-padding: unset; scroll-padding-inline: unset; scroll-snap-align: unset; scroll-snap-stop: unset; scroll-snap-type: unset; scroll-target-group: unset; scroll-timeline: unset; scrollbar-color: unset; scrollbar-gutter: unset; scrollbar-width: unset; shape-image-threshold: unset; shape-margin: unset; shape-outside: unset; shape-rendering: unset; size: unset; speak: unset; stop-color: unset; stop-opacity: unset; stroke: unset; stroke-dasharray: unset; stroke-dashoffset: unset; stroke-linecap: unset; stroke-linejoin: unset; stroke-miterlimit: unset; stroke-opacity: unset; stroke-width: unset; tab-size: unset; table-layout: unset; text-align: unset; text-align-last: unset; text-anchor: unset; text-autospace: unset; text-box: unset; text-combine-upright: unset; text-decoration: unset; text-decoration-skip-ink: unset; text-emphasis: unset; text-emphasis-position: unset; text-indent: unset; text-justify: unset; text-overflow: unset; text-shadow: unset; text-transform: unset; text-underline-offset: unset; text-underline-position: unset; text-wrap: unset; timeline-scope: unset; timeline-trigger: unset; touch-action: unset; transform: unset; transform-box: unset; transform-origin: unset; transform-style: unset; transition: unset; translate: unset; trigger-scope: unset; user-select: unset; vector-effect: unset; vertical-align: unset; view-timeline: unset; view-transition-class: unset; view-transition-group: unset; view-transition-name: unset; view-transition-scope: unset; visibility: unset; border-spacing: unset; -webkit-box-align: unset; -webkit-box-decoration-break: unset; -webkit-box-direction: unset; -webkit-box-flex: unset; -webkit-box-ordinal-group: unset; -webkit-box-orient: unset; -webkit-box-pack: unset; -webkit-box-reflect: unset; -webkit-line-break: unset; -webkit-line-clamp: unset; -webkit-mask-box-image: unset; -webkit-rtl-ordering: unset; -webkit-ruby-position: unset; -webkit-tap-highlight-color: unset; -webkit-text-combine: unset; -webkit-text-decorations-in-effect: unset; -webkit-text-fill-color: unset; -webkit-text-security: unset; -webkit-text-stroke: unset; -webkit-user-drag: unset; white-space-collapse: unset; widows: unset; width: unset; will-change: unset; word-break: unset; word-spacing: unset; x: unset; y: unset; z-index: unset; cursor: pointer; box-sizing: border-box; }
 :where(#smilefix-root) code { white-space: normal; }
 :where(#smilefix-root) span[data-type="icon"] { position: relative; vertical-align: middle; display: inline-flex; }
